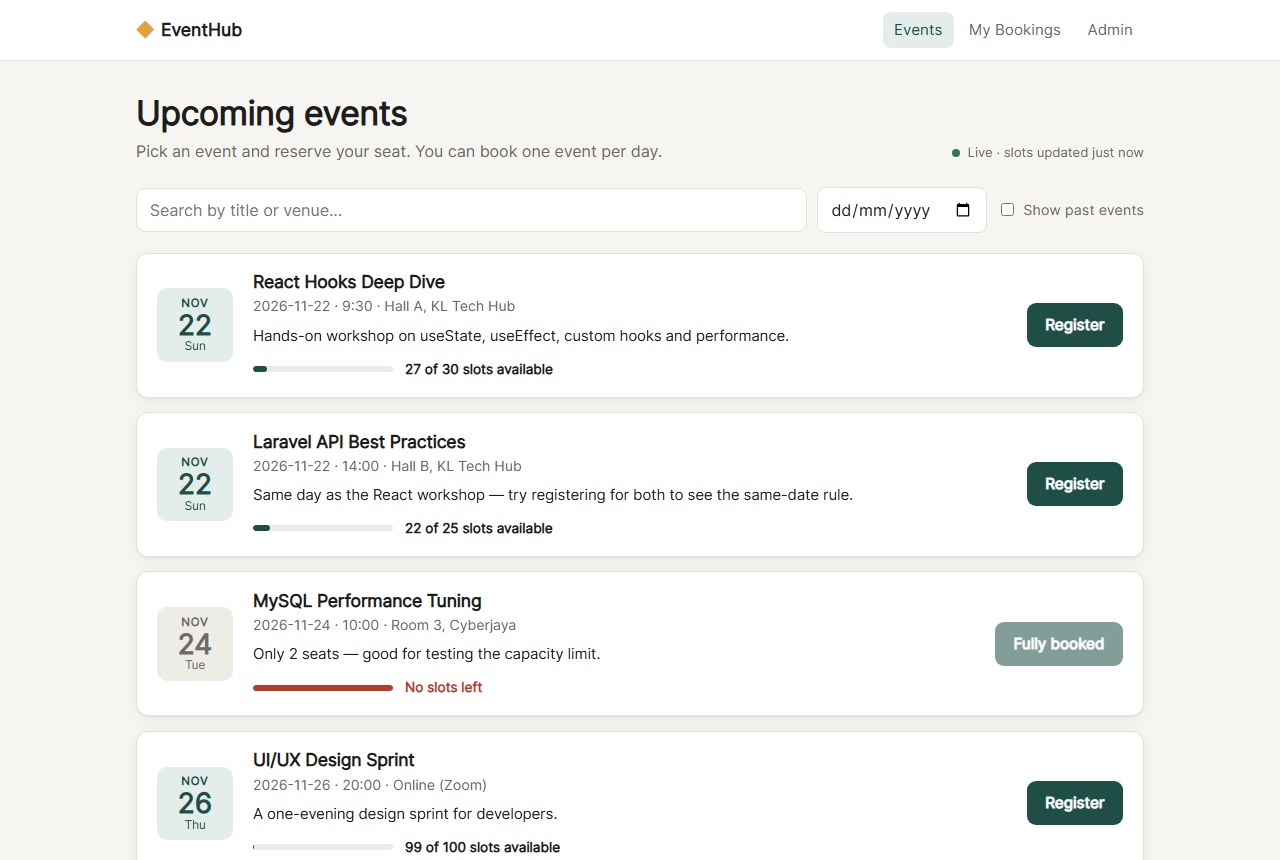
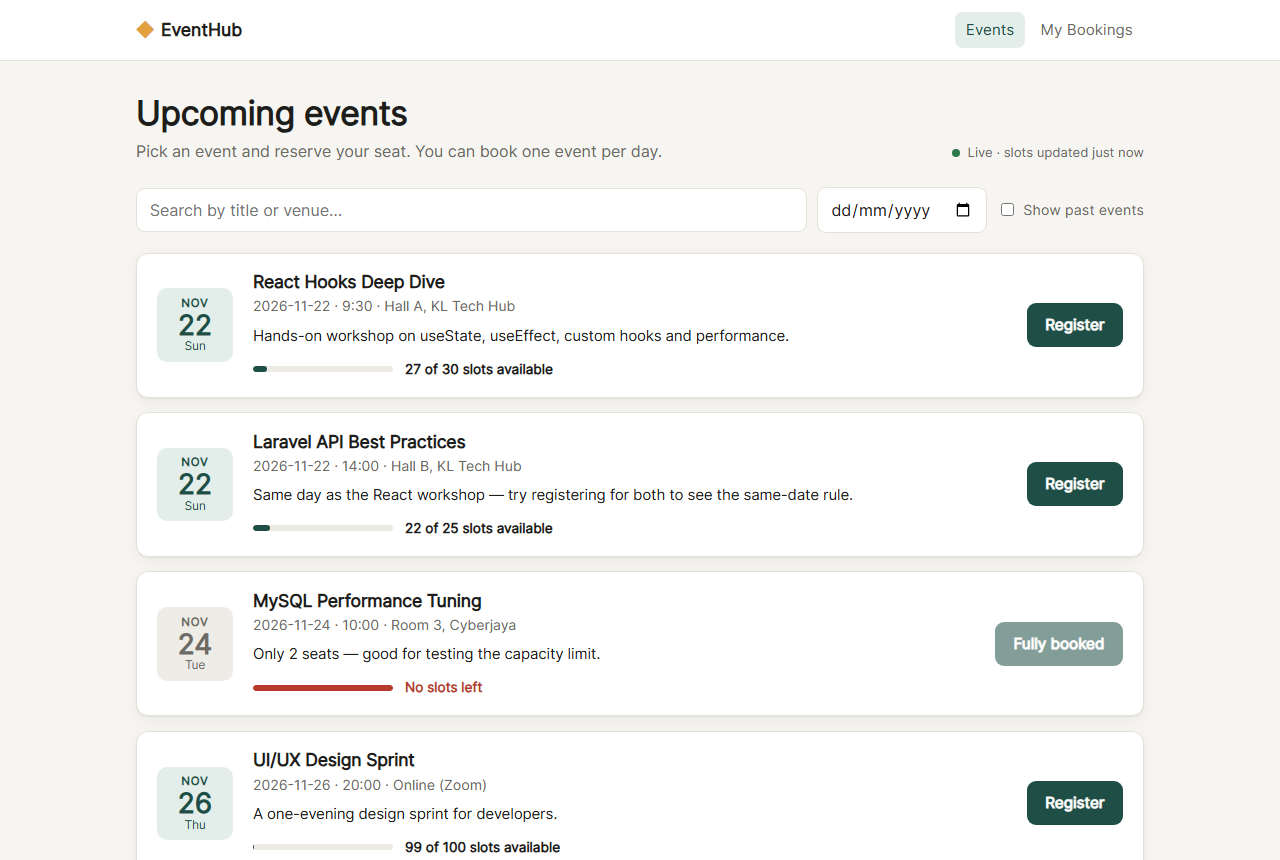
feat(frontend): hide the admin link from visitors
The public navbar no longer advertises the back office. Visitors see only Events and My Bookings. Admins open /admin directly, and the Admin and Log out links appear only once an admin is logged in.

This is a UI change only. Access control stays on the API (Sanctum token + admin middleware), as noted in the README.

- Navbar.test.jsx: hidden for visitors, shown after login, booking badge count
- browser check: visitor -> /admin -> login -> links appear -> logout -> links gone
- README tells reviewers to open /admin; screenshots retaken (the mobile navbar now fits on one line)

Changed region(s): [[0.6875, 0.0, 0.875, 0.0605]]

diff --git a/frontend/src/components/Navbar.test.jsx b/frontend/src/components/Navbar.test.jsx
@@ -1,0 +1,44 @@
+import { render, screen } from '@testing-library/react'
+import userEvent from '@testing-library/user-event'
+import { MemoryRouter } from 'react-router-dom'
+import { beforeEach, describe, expect, it, vi } from 'vitest'
+import { useAuth } from '../context/AuthContext'
+import Navbar from './Navbar'
+
+vi.mock('../context/AuthContext', () => ({ useAuth: vi.fn() }))
+
+const renderNavbar = () => render(<MemoryRouter><Navbar /></MemoryRouter>)
+
+beforeEach(() => localStorage.clear())
+
+describe('<Navbar />', () => {
+  it('does not advertise the admin area to regular visitors', () => {
+    useAuth.mockReturnValue({ isAdmin: false, logout: vi.fn() })
+    renderNavbar()
+
+    expect(screen.getByRole('link', { name: 'Events' })).toBeInTheDocument()
+    expect(screen.getByRole('link', { name: /My Bookings/ })).toBeInTheDocument()
+    expect(screen.queryByRole('link', { name: 'Admin' })).not.toBeInTheDocument()
+    expect(screen.queryByRole('button', { name: 'Log out' })).not.toBeInTheDocument()
+  })
+
+  it('shows Admin and Log out once an admin is logged in', async () => {
+    const logout = vi.fn()
+    useAuth.mockReturnValue({ isAdmin: true, logout })
+    renderNavbar()
+
+    expect(screen.getByRole('link', { name: 'Admin' })).toHaveAttribute('href', '/admin')
+    await userEvent.click(screen.getByRole('button', { name: 'Log out' }))
+    expect(logout).toHaveBeenCalled()
+  })
+
+  it('shows how many active bookings this browser holds', () => {
+    useAuth.mockReturnValue({ isAdmin: false, logout: vi.fn() })
+    localStorage.setItem('eventhub.bookings', JSON.stringify([
+      { id: 1, status: 'confirmed' }, { id: 2, status: 'cancelled' }, { id: 3, status: 'confirmed' },
+    ]))
+    renderNavbar()
+
+    expect(screen.getByRole('link', { name: /My Bookings/ })).toHaveTextContent('2')
+  })
+})

diff --git a/frontend/src/components/Navbar.jsx b/frontend/src/components/Navbar.jsx
@@ -18,9 +18,13 @@ export default function Navbar() {
           <NavLink to="/my-bookings">
             My Bookings {active > 0 && <span className="badge">{active}</span>}
           </NavLink>
-          <NavLink to="/admin">Admin</NavLink>
+          {/* No public entry point to the back office: admins open /admin directly.
+              (UX only — the API itself is protected by Sanctum + the `admin` middleware.) */}
           {isAdmin && (
-            <button type="button" className="btn btn--ghost btn--sm" onClick={logout}>Log out</button>
+            <>
+              <NavLink to="/admin">Admin</NavLink>
+              <button type="button" className="btn btn--ghost btn--sm" onClick={logout}>Log out</button>
+            </>
           )}
         </nav>
       </div>

diff --git a/README.md b/README.md
@@ -44,7 +44,7 @@ docker compose up --build
 | http://localhost:8001/api | The API directly (e.g. for Postman: set `baseUrl` to this) |
 | http://localhost:8088/api/docs | Interactive API docs (Swagger UI) |
 
-The first start takes a few minutes (it pulls images and installs dependencies). On every start, the backend container waits for MySQL and then runs the migrations and the seeder. Admin login: `admin@example.com` / `Admin@123`.
+The first start takes a few minutes (it pulls images and installs dependencies). On every start, the backend container waits for MySQL and then runs the migrations and the seeder. Admin: open http://localhost:8088/admin (it is not linked in the navbar for visitors) and log in with `admin@example.com` / `Admin@123`.
 
 Three containers are started:
 
@@ -90,7 +90,7 @@ php artisan serve               # http://127.0.0.1:8000
 
 > As an alternative to migrations, you can import `database/schema.sql`. It contains the same structure plus sample data.
 
-**Demo admin:** `admin@example.com` / `Admin@123`
+**Demo admin:** open **`/admin`** directly (e.g. http://localhost:5173/admin) and log in with `admin@example.com` / `Admin@123`. Visitors see no link to the admin area. The "Admin" and "Log out" links appear in the navbar only once an admin is logged in. Hiding the link only keeps the public UI clean; the protection itself is on the API (Sanctum token + `admin` middleware).
 
 **Verification emails in local dev:** with `MAIL_MAILER=log`, the emails (verification code, booking confirmation) are written to `backend/storage/logs/laravel.log`. In addition, `BOOKING_EXPOSE_CODE=true` (set in `.env.example`, **for local demo only**) returns the code in the API response, and the UI shows it in a "Demo mode" box so the flow can be tested without a mailbox. To send real email, configure the `MAIL_*` SMTP settings and set `BOOKING_EXPOSE_CODE=false`.
 
@@ -279,7 +279,7 @@ The last row shows that the test catches a real bug: without the row lock, 8 peo
 - [x] One-click-safe cancel link in the confirmation email: `/cancel?id=…&token=…` opens a confirmation page, and only the explicit button cancels
 - [x] API documentation: OpenAPI 3 spec + Swagger UI at `/api/docs`, kept in sync with the routes by a test
 - [x] Housekeeping: abandoned email verifications are pruned daily (`MassPrunable` + scheduler); dialogs trap focus and return it to the opener
-- [x] Automated tests: 53 backend tests (48 feature + 5 unit, PHPUnit) + 32 frontend unit tests (Vitest)
+- [x] Automated tests: 53 backend tests (48 feature + 5 unit, PHPUnit) + 35 frontend unit tests (Vitest)
 - [x] Continuous integration (GitHub Actions): backend tests, the MySQL 8 concurrency test, frontend lint/tests/build and the Docker build on every push
 
 ## 8. Assumptions

diff --git a/frontend/README.md b/frontend/README.md
@@ -17,7 +17,7 @@ npm test                 # unit tests (Vitest + Testing Library)
 | `/` | Event listing with search, date filter and "show past"; opens a registration modal |
 | `/my-bookings` | Bookings made in this browser; cancel, or cancel any booking with ID + code |
 | `/cancel?id=…&token=…` | Landing page for the cancel link in the confirmation email: shows the booking, cancels only after an explicit click |
-| `/admin` | Admin login, then dashboard (create, edit and delete events; view attendees) |
+| `/admin` | Admin login, then dashboard (create, edit and delete events; view attendees). Not linked for visitors: the navbar shows "Admin" and "Log out" only after an admin logs in |
 
 ## Structure
 
@@ -36,7 +36,8 @@ src/
 │   ├── LiveIndicator.jsx    "Live · slots updated 12s ago"
 │   ├── Pagination.jsx       prev / numbered pages with ellipsis / next (+ Pagination.test.jsx)
 │   ├── Modal.jsx            dialog: Esc/backdrop close, focus trap, focus returns to opener (+ test)
-│   ├── Alert.jsx, Spinner.jsx, EmptyState.jsx, Navbar.jsx
+│   ├── Navbar.jsx           admin links only for logged-in admins (+ Navbar.test.jsx)
+│   ├── Alert.jsx, Spinner.jsx, EmptyState.jsx
 ├── context/AuthContext.jsx  admin token state, login / logout
 ├── hooks/
 │   ├── useEvents.js         fetch + loading/error + refetch, aborts stale requests,
